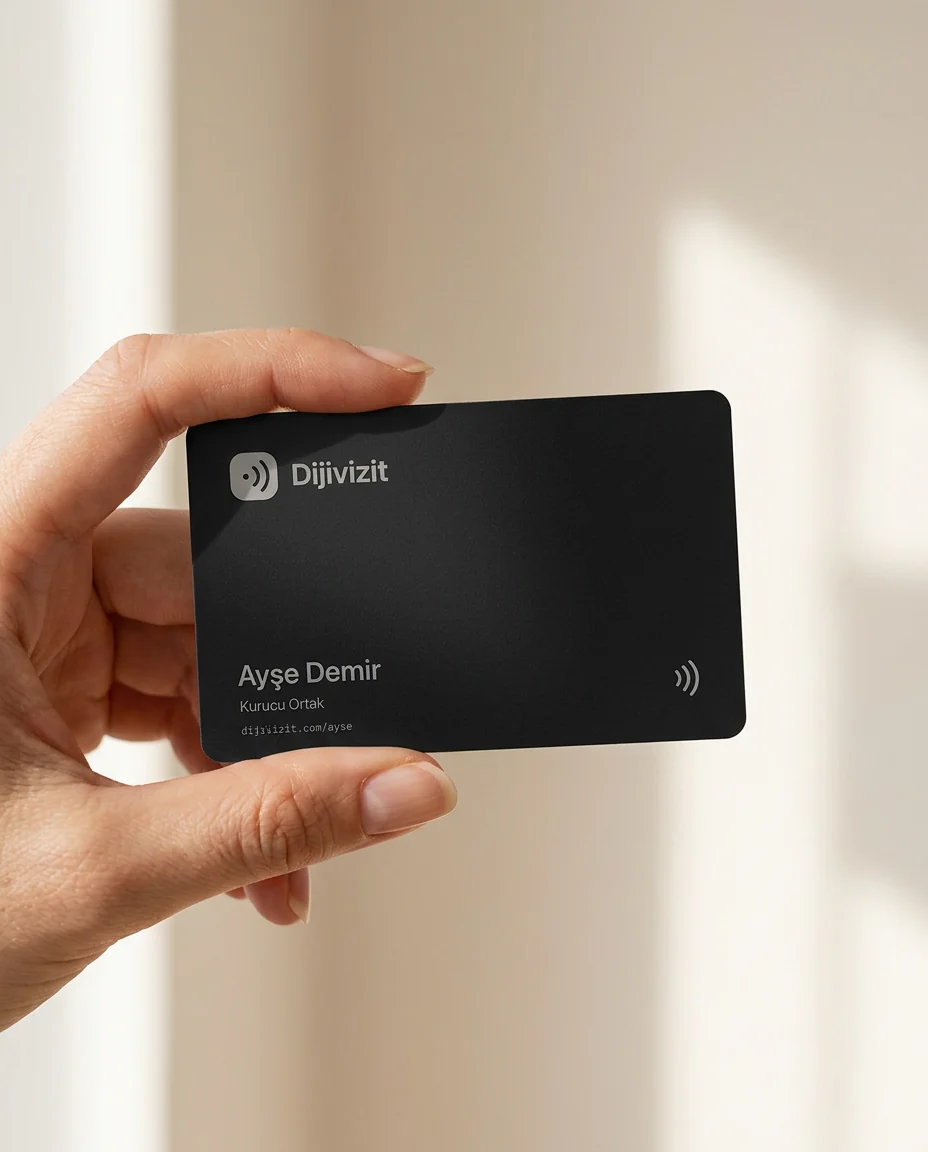
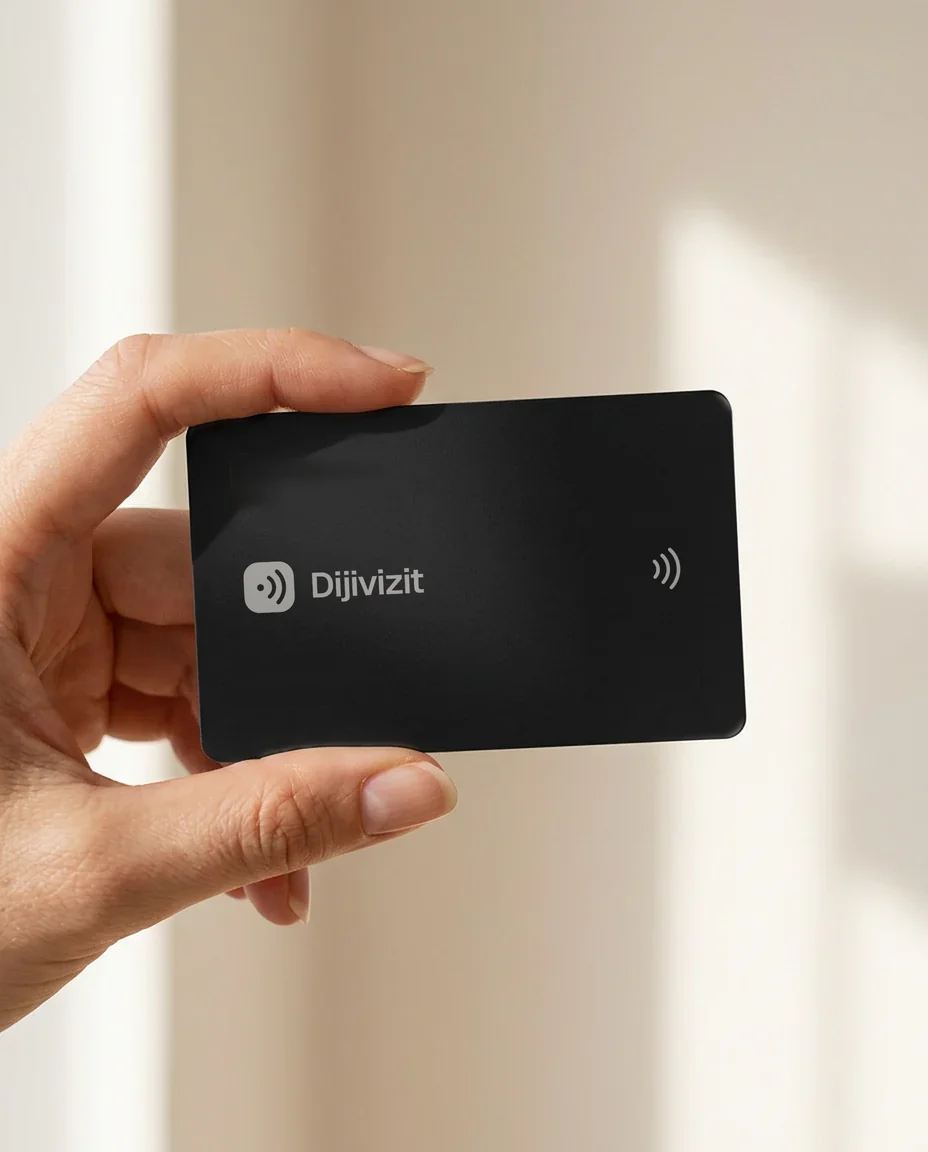
Lifestyle photos: replace the named card with the shared card design
render/relabel rectifies the card in each photo, removes the old engraving and
engraves the new front; neutral-only replacement keeps fingers, leather and
phones untouched.

Claude-Session: https://claude.ai/code/session_01RbxPV14g2sV64gxynTKrXk

diff --git a/render/relabel/relabel.py b/render/relabel/relabel.py
@@ -1,0 +1,140 @@
+"""Replace the engraved artwork on a card in a photo with the new card front.
+
+The card face is rectified with a homography, the old engraving is removed
+with a large median filter (the face is smooth), the new mask is engraved in a
+light tone sampled from the old engraving, and the result is warped back.
+Only neutral (low-chroma) pixels inside the card polygon are replaced, so
+fingers, leather and phones that overlap the card stay untouched.
+"""
+import argparse, json
+import numpy as np
+from PIL import Image, ImageFilter, ImageDraw
+
+W, H = 1712, 1080  # rectified face, 85.6 x 54 mm
+
+def homography(src, dst):
+    A = []
+    for (x, y), (u, v) in zip(src, dst):
+        A.append([x, y, 1, 0, 0, 0, -u * x, -u * y, -u])
+        A.append([0, 0, 0, x, y, 1, -v * x, -v * y, -v])
+    _, _, vt = np.linalg.svd(np.array(A, float))
+    h = vt[-1].reshape(3, 3)
+    return h / h[2, 2]
+
+def warp(img, Hinv, size):
+    """Sample img (HxWxC float) at Hinv * output pixel."""
+    w, h = size
+    ys, xs = np.mgrid[0:h, 0:w]
+    pts = np.stack([xs.ravel(), ys.ravel(), np.ones(xs.size)])
+    m = Hinv @ pts
+    u, v = m[0] / m[2], m[1] / m[2]
+    ih, iw = img.shape[:2]
+    u0 = np.clip(np.floor(u).astype(int), 0, iw - 2); v0 = np.clip(np.floor(v).astype(int), 0, ih - 2)
+    fu = np.clip(u - u0, 0, 1)[:, None]; fv = np.clip(v - v0, 0, 1)[:, None]
+    p = img[v0, u0] * (1 - fu) * (1 - fv) + img[v0, u0 + 1] * fu * (1 - fv) + img[v0 + 1, u0] * (1 - fu) * fv + img[v0 + 1, u0 + 1] * fu * fv
+    inside = (u >= 0) & (u < iw - 1) & (v >= 0) & (v < ih - 1)
+    return p.reshape(h, w, -1), inside.reshape(h, w)
+
+def run(photo, corners, artwork, out, ink=None, strength=1.0, chroma_max=28, exclude=None, filt=41, debug=None, old_art=None, grow=3):
+    src = Image.open(photo).convert("RGB")
+    S = 2  # supersample the photo for cleaner resampling
+    big = src.resize((src.width * S, src.height * S), Image.LANCZOS)
+    img = np.asarray(big, float) / 255
+    c = np.array(corners, float) * S
+    face_pts = [(0, 0), (W, 0), (W, H), (0, H)]
+    H_face_to_img = homography(face_pts, c)
+    H_img_to_face = np.linalg.inv(H_face_to_img)
+
+    face, _ = warp(img, H_face_to_img, (W, H))
+    face_img = Image.fromarray((face * 255).clip(0, 255).astype(np.uint8))
+    # Remove old engraving: find it (brighter than the local surface), then
+    # rebuild the surface underneath with a normalized (masked) blur.
+    small = face_img.resize((W // 4, H // 4), Image.BILINEAR)
+    local = np.asarray(small.filter(ImageFilter.MedianFilter(filt // 4 | 1)).resize((W, H), Image.BICUBIC), float) / 255
+    lift = (face - local).mean(axis=2)
+    old_ink = lift > 0.025
+    grown = Image.fromarray((old_ink * 255).astype(np.uint8))
+    for _ in range(grow):
+        grown = grown.filter(ImageFilter.MaxFilter(9))
+    hole = np.asarray(grown, float)[..., None] / 255
+    if old_art:
+        # The previous layout, generously dilated, is erased too.
+        o = Image.open(old_art).convert("L").resize((W, H), Image.LANCZOS)
+        o = o.point(lambda v: 255 if v > 40 else 0)
+        for _ in range(5):
+            o = o.filter(ImageFilter.MaxFilter(9))
+        hole = np.maximum(hole, np.asarray(o, float)[..., None] / 255)
+    inner = Image.new("L", (W, H), 0)
+    ImageDraw.Draw(inner).rounded_rectangle([50, 50, W - 51, H - 51], radius=60, fill=255)
+    inner = np.asarray(inner, float)[..., None] / 255
+    face_chroma = (face.max(axis=2) - face.min(axis=2))[..., None]
+    keep = (1 - hole) * inner * (face_chroma < chroma_max / 255)
+
+    # Fill holes row by row from the nearest clean pixels on both sides, then
+    # smooth vertically a little: keeps the lighting gradients and shadows.
+    base = face.copy()
+    xs = np.arange(W)
+    ok_all = keep[..., 0] > 0.5
+    for y in range(H):
+        ok = ok_all[y]
+        if ok.sum() < 10:
+            continue
+        for ch in range(3):
+            base[y, :, ch] = np.interp(xs, xs[ok], face[y, ok, ch])
+    sm = Image.fromarray((base * 255).clip(0, 255).astype(np.uint8)).filter(ImageFilter.GaussianBlur(14))
+    base = np.asarray(sm, float) / 255
+    # Grain borrowed from the clean surface.
+    grain = (face - local) * keep
+    rng = np.random.default_rng(0)
+    gy = rng.integers(0, H, size=(H, W)); gx = rng.integers(0, W, size=(H, W))
+    pick = ok_all[gy, gx]
+    noise = np.where(pick[..., None], grain[gy, gx], 0)
+    base = base + np.clip(noise, -0.02, 0.02) * 0.6
+
+    if ink is None:
+        ink_col = np.percentile(face[old_ink], 75, axis=0) if old_ink.sum() > 50 else base.mean((0, 1)) + 0.35
+    else:
+        ink_col = np.array(ink, float) / 255
+    detail = np.clip((face - local) * keep, -0.03, 0.03)
+
+    art = Image.open(artwork).convert("L").resize((W, H), Image.LANCZOS)
+    a = np.asarray(art, float)[..., None] / 255 * strength
+    # Engraving picks up the face lighting a little.
+    lum = base.mean(axis=2, keepdims=True)
+    ink_lit = np.clip(ink_col + (lum - lum.mean()) * 0.6, 0, 1)
+    base = base * hole + face * keep if False else base
+    soft = np.asarray(Image.fromarray((hole[..., 0] * 255).astype(np.uint8)).filter(ImageFilter.GaussianBlur(10)), float)[..., None] / 255
+    new_face = face * (1 - soft) + base * soft
+    new_face = new_face * (1 - a) + ink_lit * a
+
+    # Rounded-rectangle face mask.
+    m = Image.new("L", (W, H), 0)
+    ImageDraw.Draw(m).rounded_rectangle([3, 3, W - 4, H - 4], radius=int(H * 0.06), fill=255)
+    m = np.asarray(m.filter(ImageFilter.GaussianBlur(2)), float)[..., None] / 255
+
+    back, inside = warp(np.concatenate([new_face, m], axis=2), H_img_to_face, (img.shape[1], img.shape[0]))
+    alpha = back[..., 3:4] * inside[..., None]
+    chroma = img.max(axis=2) - img.min(axis=2)
+    neutral = (chroma < chroma_max / 255).astype(float)[..., None]
+    neutral = np.asarray(Image.fromarray((neutral[..., 0] * 255).astype(np.uint8)).filter(ImageFilter.MinFilter(5)).filter(ImageFilter.GaussianBlur(1.5)), float)[..., None] / 255
+    alpha = alpha * neutral
+    if exclude:
+        ex = Image.new("L", (img.shape[1], img.shape[0]), 255)
+        for poly in exclude:
+            ImageDraw.Draw(ex).polygon([(x * S, y * S) for x, y in poly], fill=0)
+        alpha = alpha * (np.asarray(ex.filter(ImageFilter.GaussianBlur(2)), float)[..., None] / 255)
+    result = img * (1 - alpha) + back[..., :3] * alpha
+    out_img = Image.fromarray((result * 255).clip(0, 255).astype(np.uint8)).resize(src.size, Image.LANCZOS)
+    out_img.save(out, quality=90) if out.endswith(".jpg") else out_img.save(out, quality=90)
+    if debug:
+        Image.fromarray((new_face * 255).clip(0, 255).astype(np.uint8)).resize((W // 2, H // 2)).save(debug)
+
+if __name__ == "__main__":
+    ap = argparse.ArgumentParser()
+    ap.add_argument("photo"); ap.add_argument("out"); ap.add_argument("--spec", required=True)
+    ap.add_argument("--art", required=True); ap.add_argument("--debug")
+    a = ap.parse_args()
+    spec = json.loads(a.spec)
+    run(a.photo, spec["corners"], a.art, a.out, ink=spec.get("ink"), strength=spec.get("strength", 1.0),
+        chroma_max=spec.get("chroma", 28), exclude=spec.get("exclude"), filt=spec.get("filt", 41), debug=a.debug,
+        old_art=spec.get("old_art", "render/relabel/old-card-front.png"), grow=spec.get("grow", 3))
